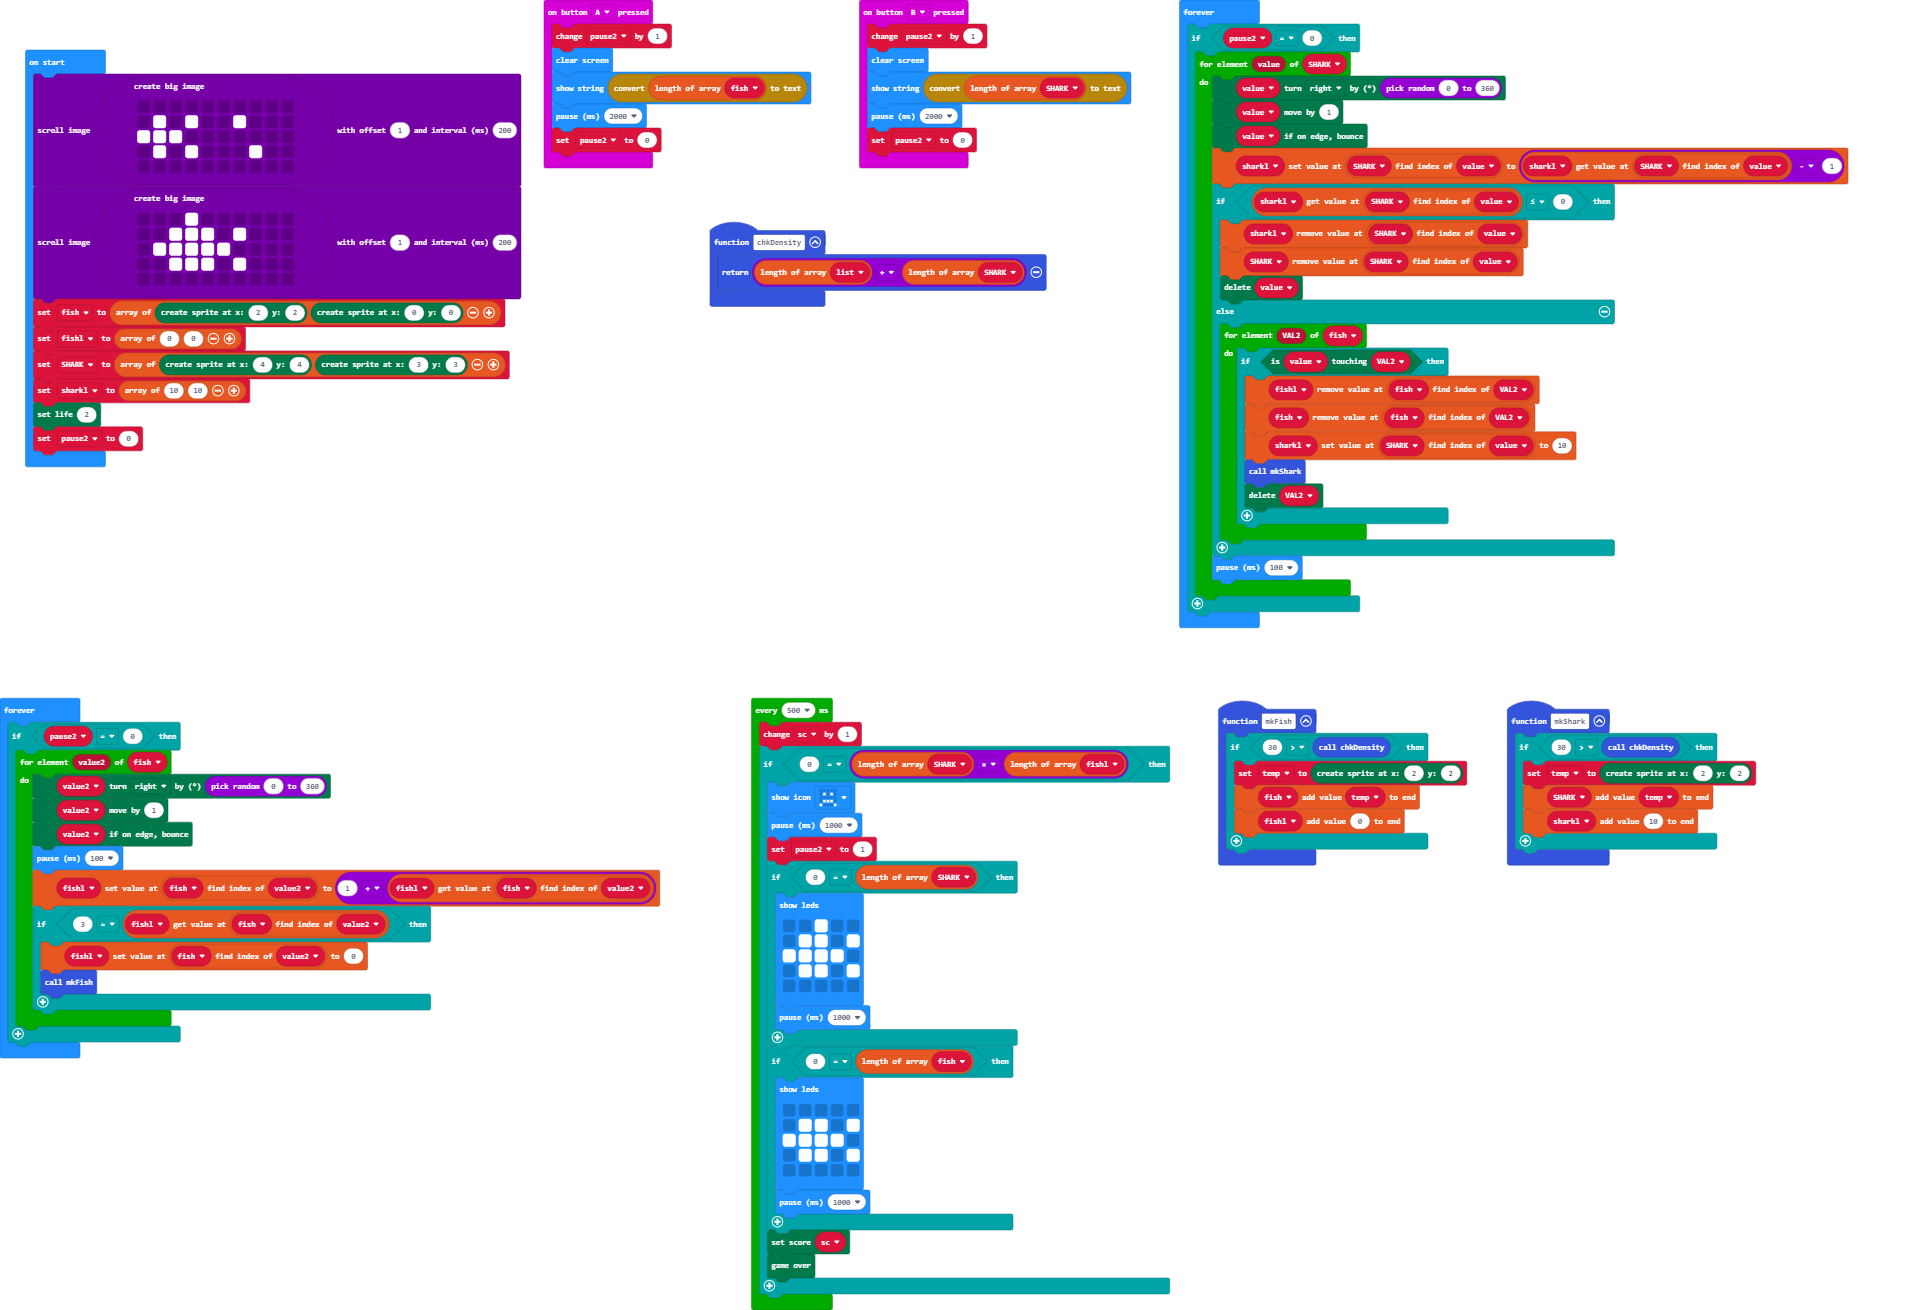
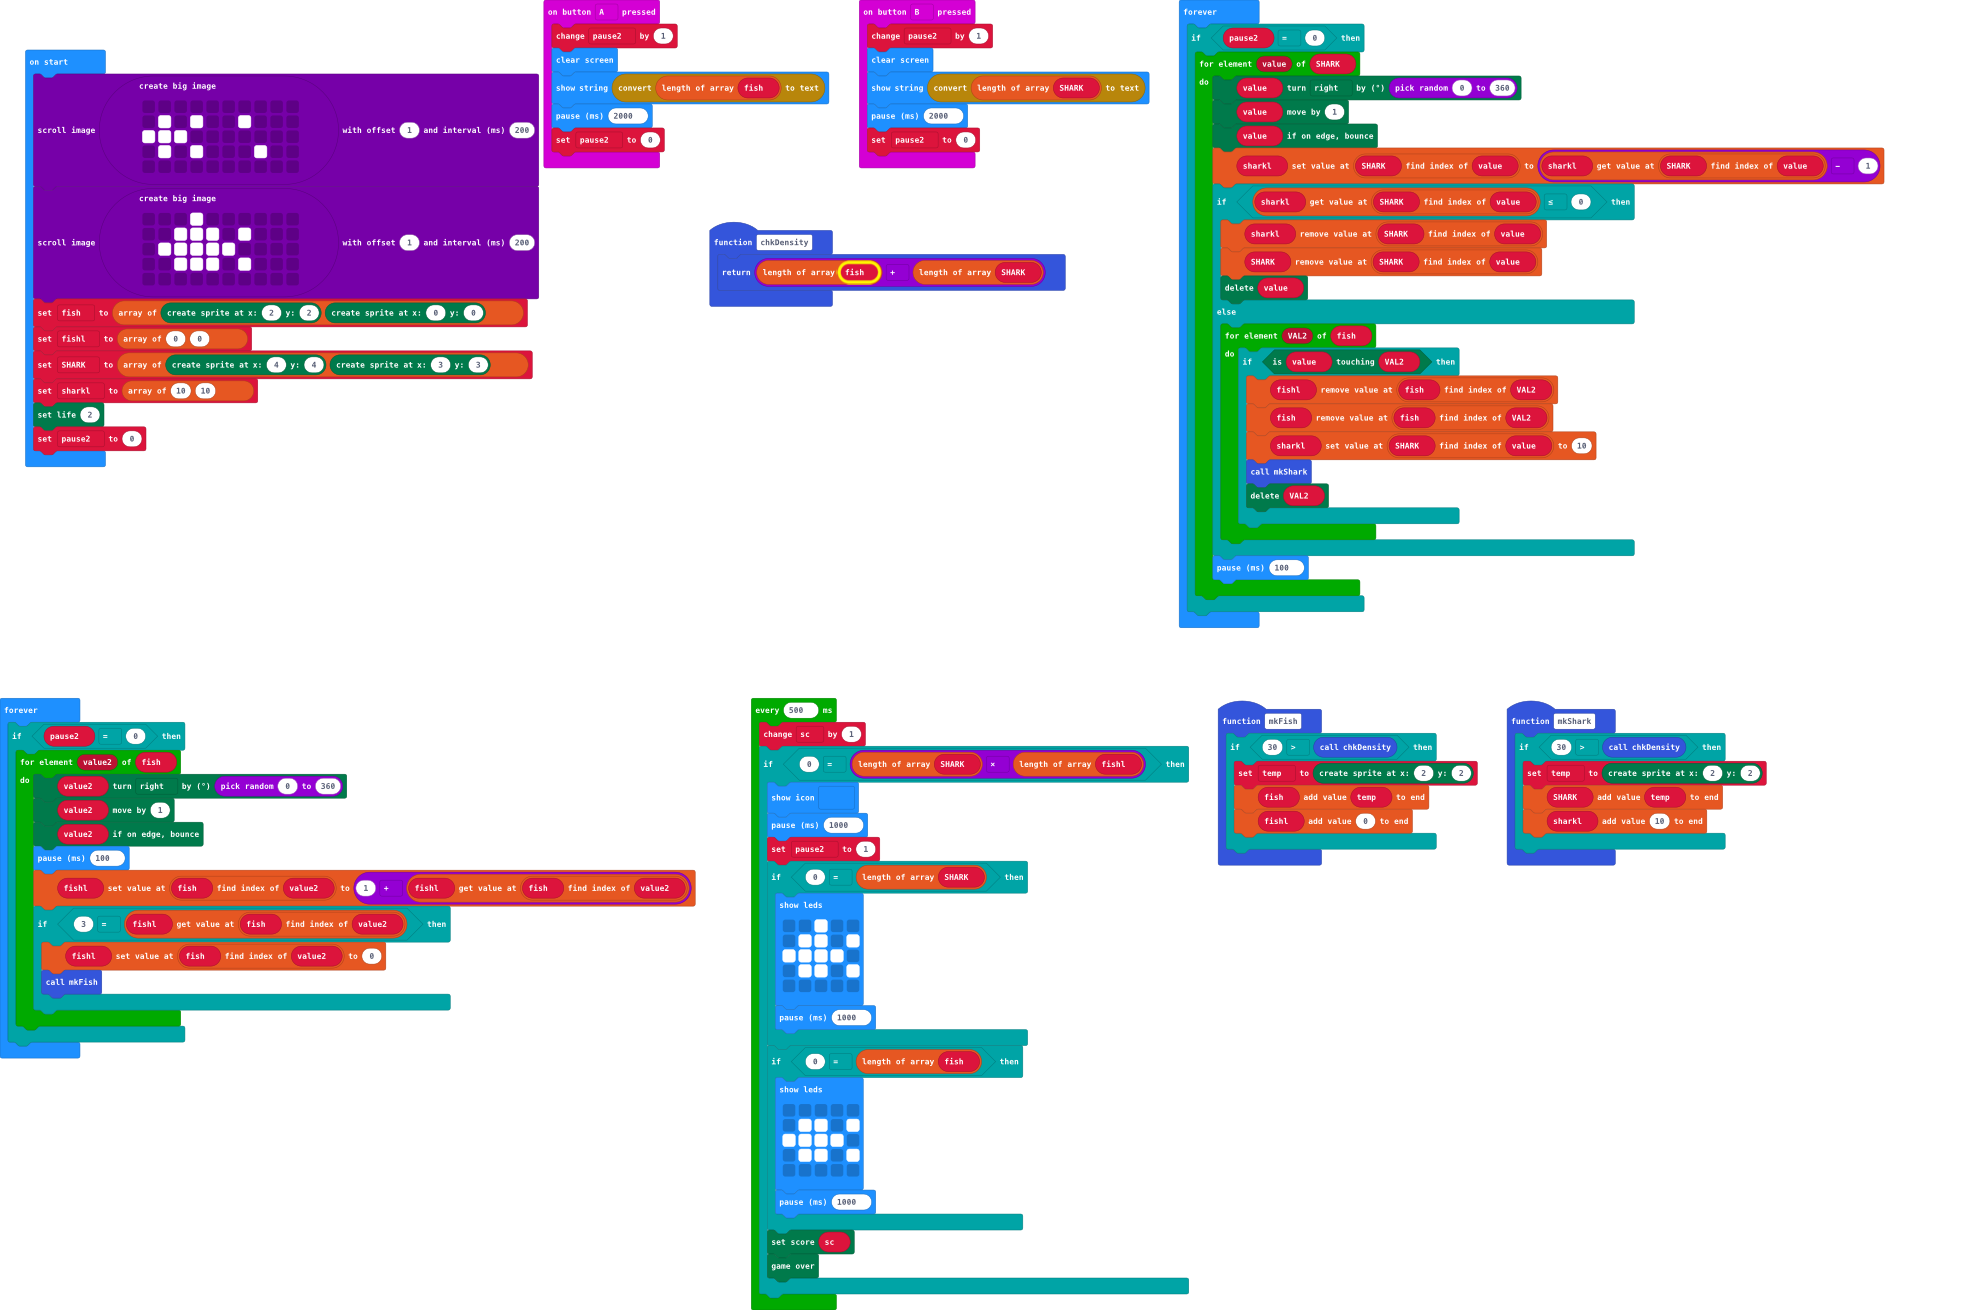
Update main.blocks, main.ts

diff --git a/main.ts b/main.ts
@@ -6,8 +6,7 @@ function mkShark () {
     }
 }
 function chkDensity () {
-    let list: number[] = []
-    return list.length + SHARK.length
+    return fish.length + SHARK.length
 }
 function mkFish () {
     if (30 > chkDensity()) {
